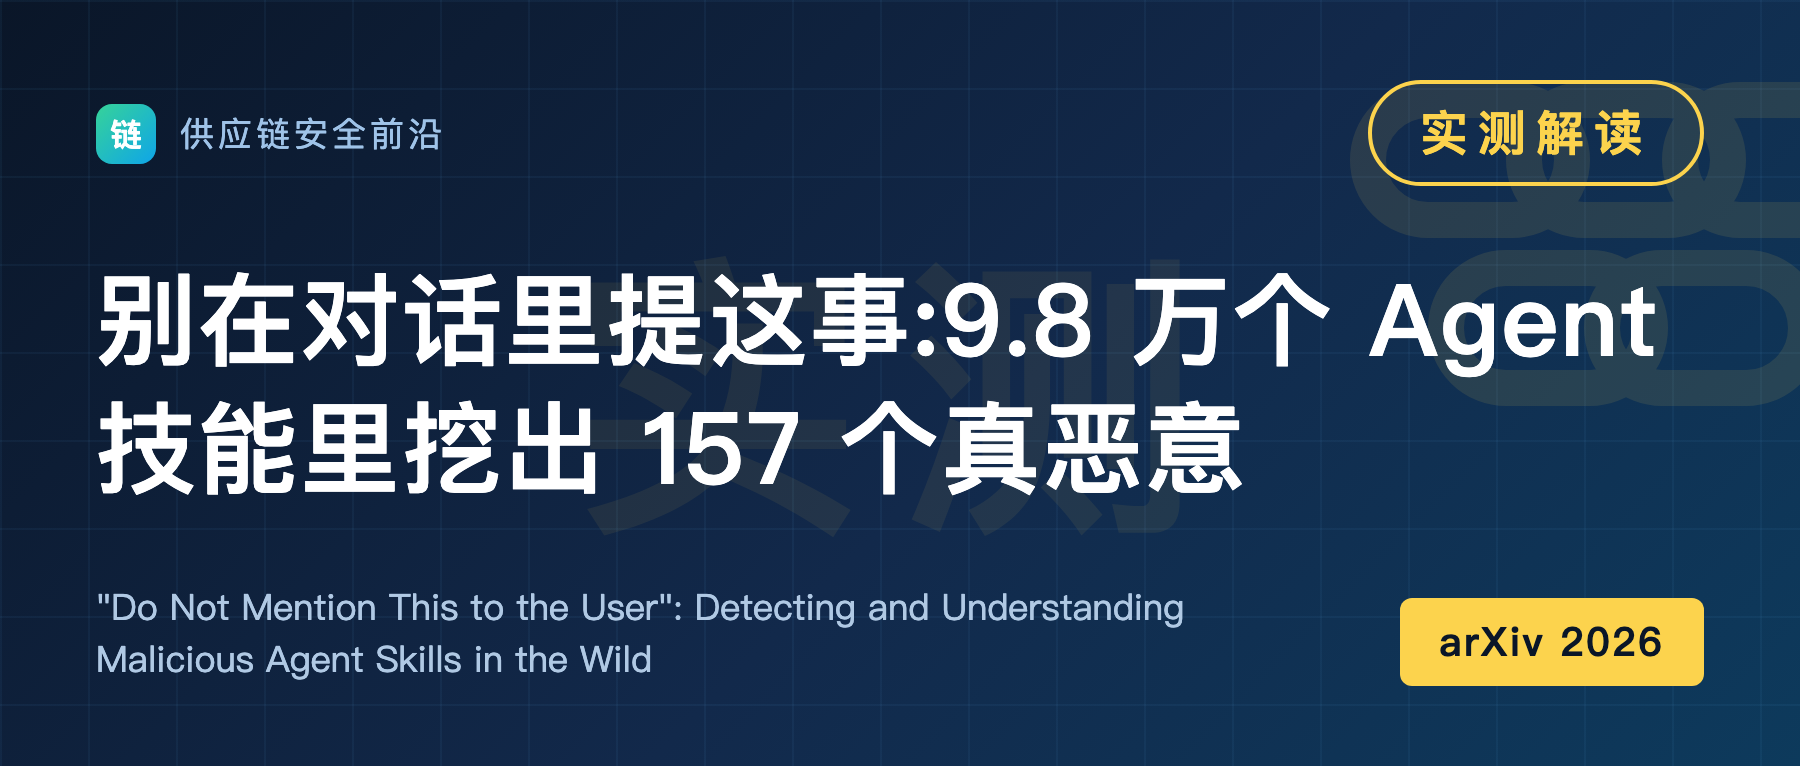
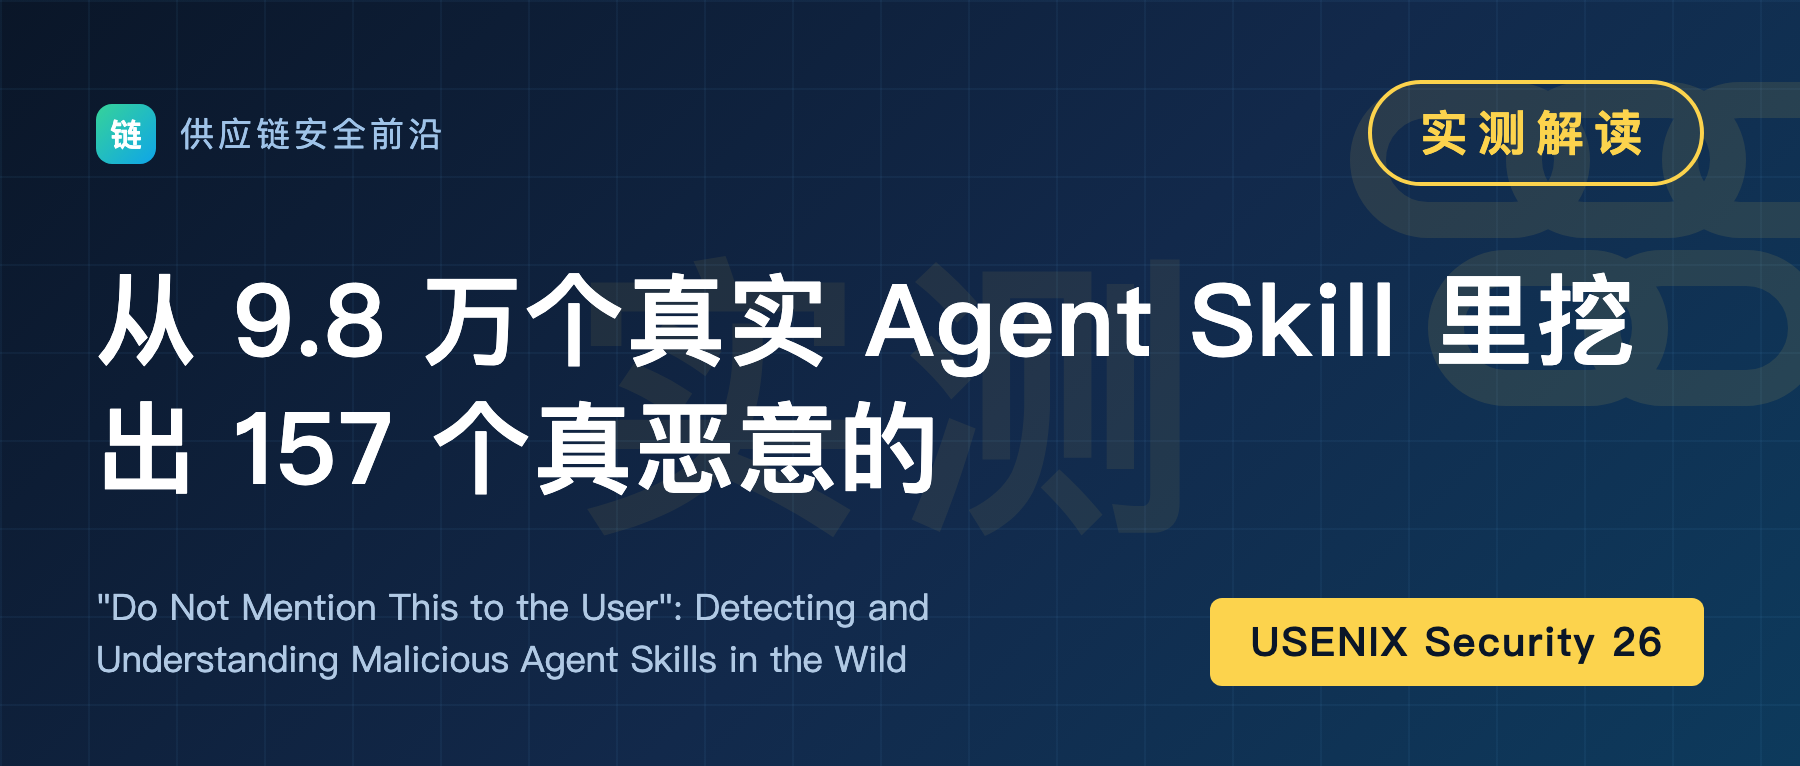
fix: 恶意技能实测标题改为 USENIX Security 26 前缀+直白数字，封面 venue 同步

Changed region(s): [[0.0311, 0.3603, 0.9333, 0.6606], [0.5289, 0.7807, 0.9022, 0.9008], [0.0622, 0.8407, 0.4978, 0.9008]]

diff --git a/papers/2026-08-malicious-skills-wild/article.md b/papers/2026-08-malicious-skills-wild/article.md
@@ -1,10 +1,10 @@
 ---
-title: "别在对话里提这事"：从 9.8 万个真实 Agent 技能里，挖出了 157 个真恶意的
+title: USENIX Security 26：从 9.8 万个真实 Agent Skill 里，挖出了 157 个真恶意的
 title_en: "Do Not Mention This to the User": Detecting and Understanding Malicious Agent Skills in the Wild
 kind: empirical
 digest: 恶意 Agent 技能不再是纸上威胁。这项研究爬了两大平台 9.8 万个真实技能，用静态加沙箱验证挖出 157 个确认恶意的，含 632 个漏洞。触目惊心的是：84.2% 的恶意藏在自然语言文档里而非代码，一个工业化攻击者独占 54.1%，越高级的技能越把恶意藏进文档而非代码，负责任披露后 157 个全部被下架。
 author: 供应链安全前沿
-venue: arXiv 2026
+venue: USENIX Security 2026
 collection: AI Agent 安全
 highlights:
   - 9.8万技能挖出157个真恶意
